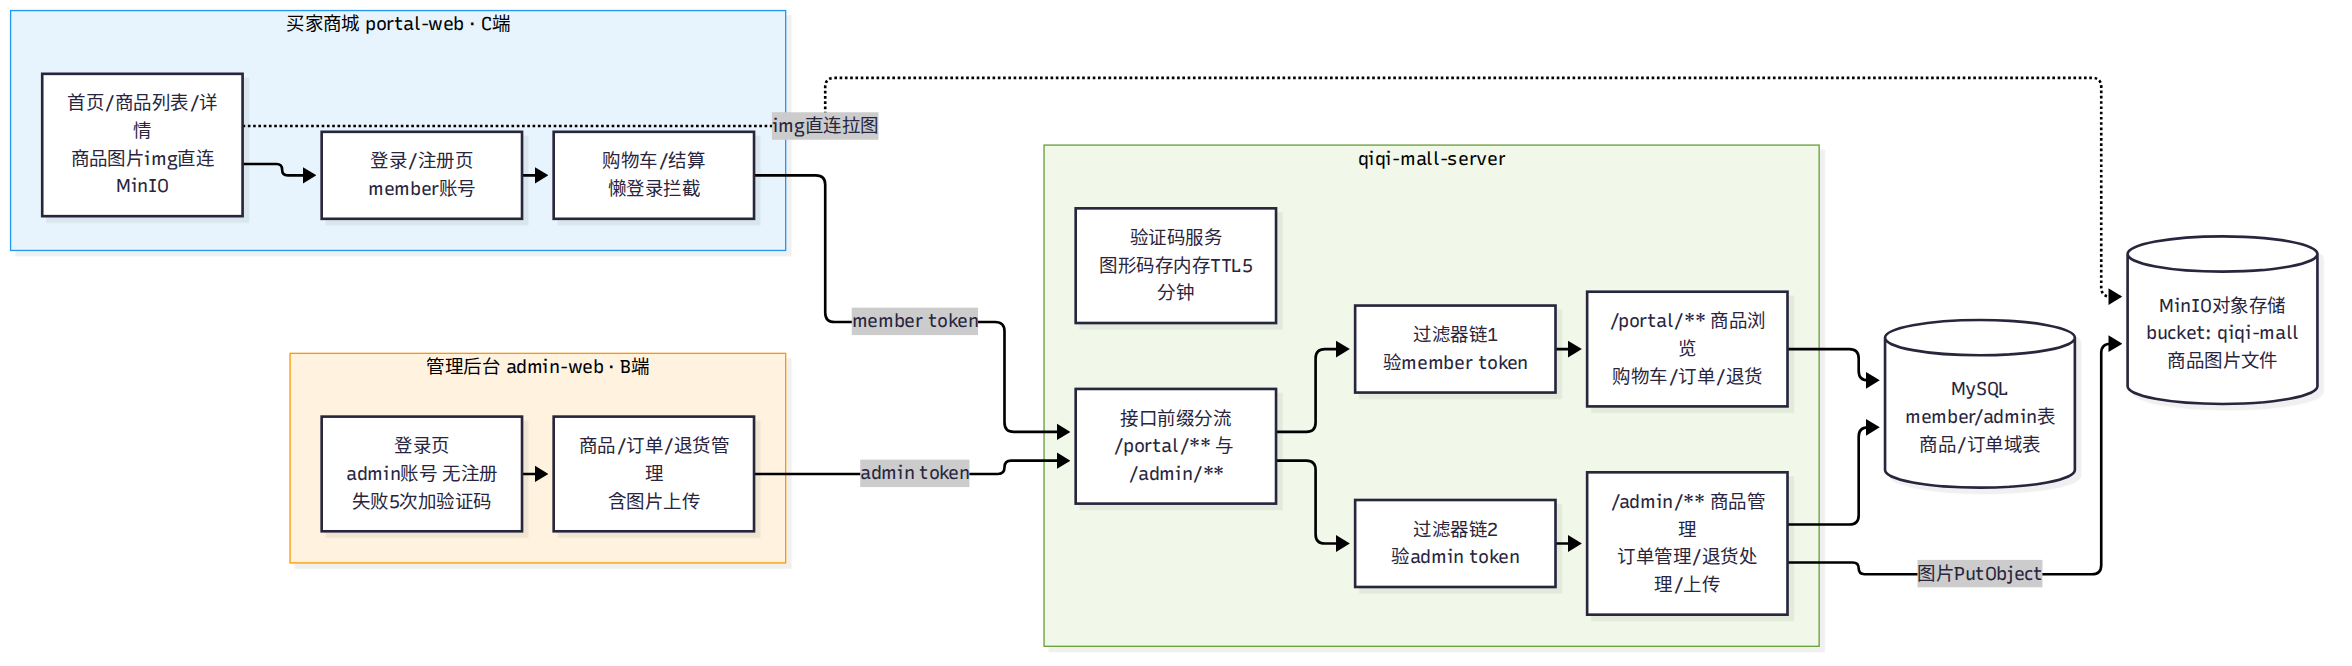
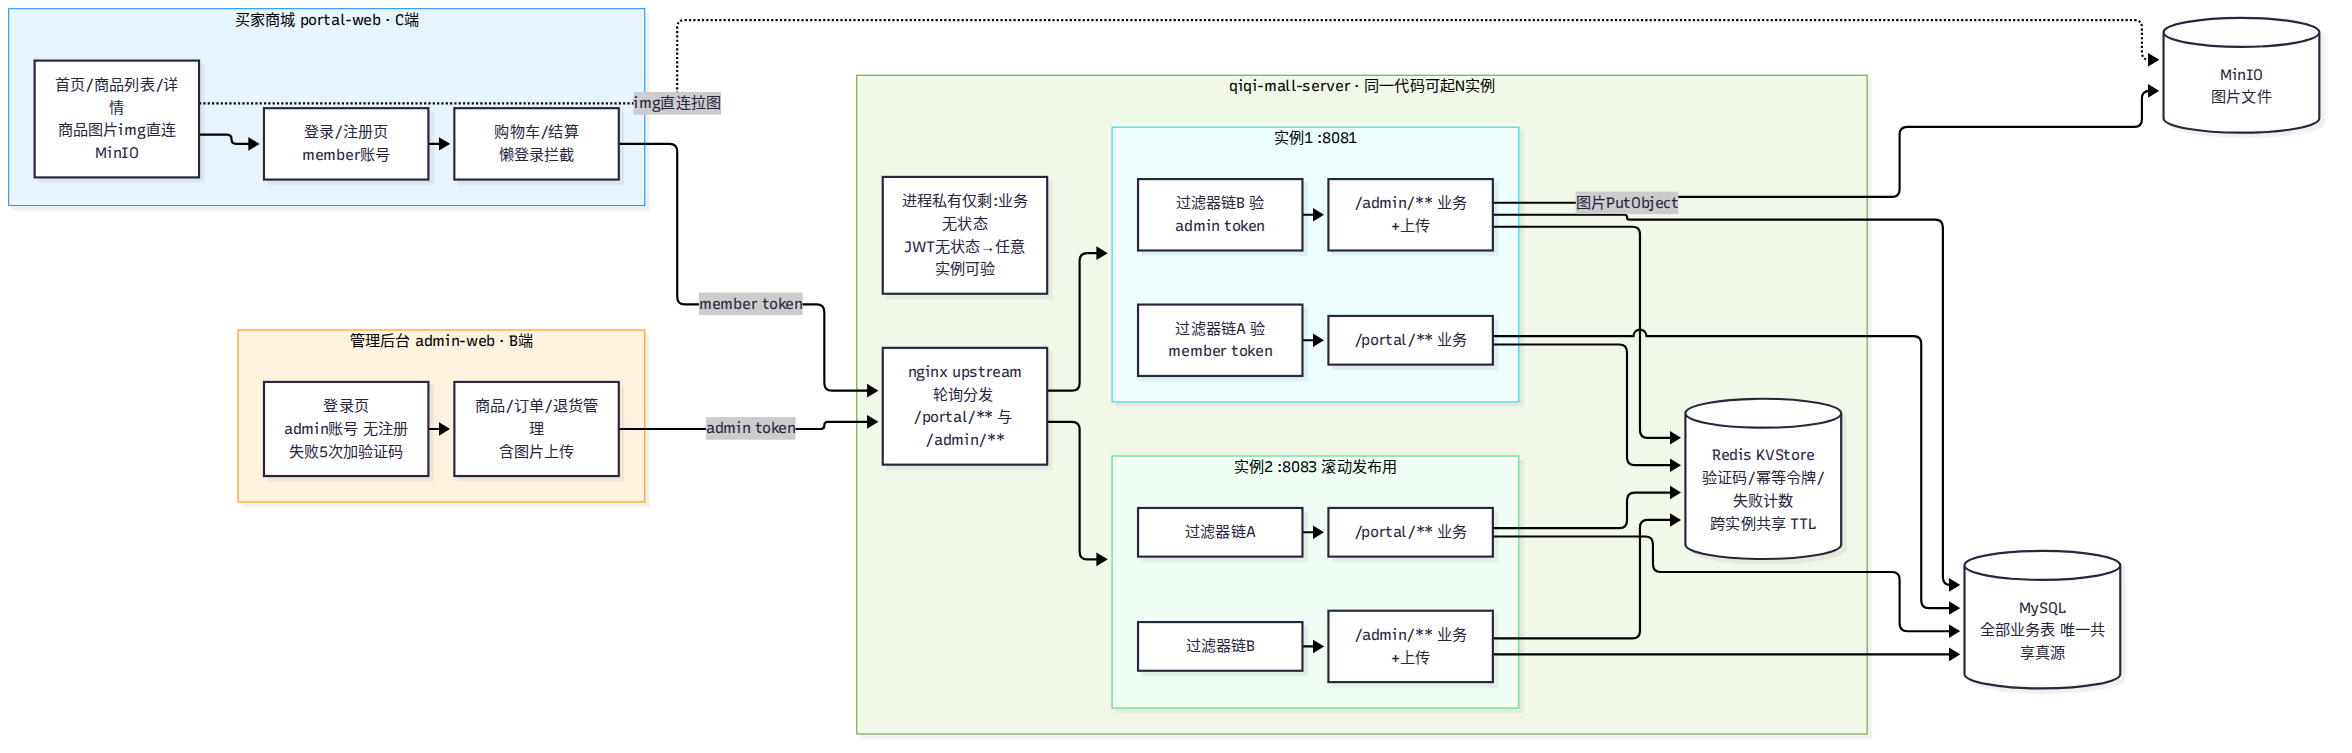
docs: 架构图升级为多实例+Redis版(nginx upstream/KVStore共享) + 多实例改造规划multi-instance-plan + 索引同步

diff --git a/docs/PROJECT-DOCS-INDEX.md b/docs/PROJECT-DOCS-INDEX.md
@@ -1,38 +1,90 @@
-# 七七商城 文档总索引
+# 七七商城 设计图集
 
-> 本文件是全项目文档与图集的**唯一入口**。图集与代码同步原则：**图必须服从实现**（实现变了图跟着改）。
+> 本文档是全部设计图的索引。源码 `.mmd` 与成图 `.png` 同名成对存放，文件按阅读顺序编号。
+> 重新出图（3倍分辨率）：`npx --prefix <mmdc目录> mmdc -s 3 -i <文件>.mmd -o <文件>.png -b white -p puppeteer.json`
 
-## 一、图集（docs/er-diagrams.md 为图集详细索引）
+## 图集总目录（按编号即阅读顺序）
 
-| 编号 | 类别 | 位置 | 说明 |
+| 编号 | 图名 | 类型 | 回答的问题 |
 |---|---|---|---|
-| 1 | 架构 | flows/01-架构/ | B/C端分离+双过滤器链+MySQL/MinIO |
-| 2 | 总览 | flows/02-业务场景/ | 全业务环节串联(实现状态已同步) |
-| 3~6 | 场景 | flows/02-业务场景/ | 商品浏览/购买下单/订单履约/售后退货 |
-| 7~9 | 机制 | flows/03-机制时序/ | 登录/验证码/图片上传 |
-| 10~13 | ER | er/ | 总览(17实体)/商品域/订单域/用户域 |
-| 14 | 状态 | flows/04-状态机与修复/ | 守卫态状态机(status 0~6) |
-| 15 | 修复 | flows/04-状态机与修复/ | e2e五项修复交互规格 |
-| 16~18 | 问题 | flows/05-问题归档/ | e2e历史问题(已修复归档) |
+| 1 | 系统架构图 | 架构 | 系统分几端、边界在哪、通道怎么走 |
+| 2 | 主链路总览图 | 流程 | 全部业务环节串联视图（四场景的整合参考） |
+| 3 | 场景1-商品浏览 | 场景 | 管理员上架 → 买家浏览详情 |
+| 4 | 场景2-购买下单 | 场景 | 懒登录拦截 → 购物车合并 → 下单 → 支付 |
+| 5 | 场景3-订单履约 | 场景 | 管理员发货 → 买家确认收货 ⭐缺口集中在此 |
+| 6 | 场景4-售后退货 | 场景 | 买家申请 → 管理员审核 → 售后闭环 |
+| 7 | 登录业务时序图 | 机制 | 三场景时序：买家登录注册回跳、管理员验证码登录、token访问 |
+| 8 | 验证码机制时序图 | 机制 | 图形码生成校验、一次性消费、失败计数 |
+| 9 | 图片上传时序图 | 机制 | MinIO 上传、安全校验、URL 回填 |
+| 10 | ER图-总览 | 数据 | 15 实体全关系总览 |
+| 11 | ER图-商品域 | 数据 | 分类/类型/属性/商品/SKU/**SKU规格值**/相册 |
+| 12 | ER图-订单域 | 数据 | 订单(status 0~6)/明细/退货/原因/设置/支付流水 |
+| 13 | ER图-用户域 | 数据 | 会员/收货地址/购物车/管理员 |
+| 14 | 订单状态图 | 状态 | 守卫态状态机:每条流转标[触发者]+接口+前置校验;下单即扣模型(关单=回补库存) |
+| 15 | e2e修复方案时序图 | 机制 | P1发货/P2确认收货/P3售后可见/P4分类树/守卫剥离 五项修复的交互规格 |
+| 16 | 问题图-P12履约断链 | 问题 | e2e发现:发货无按钮+确认收货无接口,订单卡已付款 |
+| 17 | 问题图-P34缺陷 | 问题 | 退货结果买家不可见+分类树选不了父节点 |
+| 18 | 问题图-状态机无守卫 | 问题 | 通用更新任意改status,两种脏数据路径 |
 
-## 二、性能难点证据链（benchmark/，见 benchmark/README.md 总索引）
+存放位置与分组：
+- `flows/01-架构/`：编号 1
+- `flows/02-业务场景/`：编号 2~6（主链路总览 + 四场景）
+- `flows/03-机制时序/`：编号 7~9（登录/验证码/上传）
+- `flows/04-状态机与修复/`：编号 14~15
+- `flows/05-问题归档/`：编号 16~18（已修复，过程证据）
+- `er/`：编号 10~13
 
-| 优化项 | 状态 | 量化结论 |
-|---|---|---|
-| 1-防超卖与死锁 | ✅ 完整闭环 | 超卖88→0;死锁53%触发→重试治理 |
-| 2-SQL调优 | ✅ P1/P2已闭环 | 23MB/3.4s→KB级/100ms;filesort消除 |
-| 预聚合+自动关单 | ⏸ 规划 | 依赖 order.create_time(ER待补) |
+## 阅读顺序建议
 
-## 三、过程文档
+1. **先看 1**（架构）：知道系统有几端、什么边界
+2. **再看 2 + 3~6**（场景）：知道业务怎么走、哪些已实现（✅）哪些缺失（⛔）
+3. **实现某模块时查 10~13**（数据）：建表和写接口的依据
+4. **深入某个点时看 7~9**（机制）：登录/验证码/上传的详细设计
 
-| 文档 | 说明 |
-|---|---|
-| docs/audit-doc-consistency.md | 第二轮文档一致性审计(2026-11-10,已全部修复) |
-| docs/docker.md | 部署/镜像源探测流程 |
-| e2e/FINDINGS.md | e2e历史问题清单(P1~P4,均已修复) |
+## 关键设计结论速查
 
-## 四、遗留待办
+### 架构（图1）
+B/C 端分离：admin-web（管理后台）与 portal-web（买家商城）两个前端应用 + 单后端双过滤器链（/admin/** 与 /portal/** 分流）+ MySQL 与 MinIO 双存储。
+**隔离四维度**：入口隔离（不同登录地址）、身份隔离（admin/member 两张账号表）、通道隔离（各自 token 与过滤器链）、数据隔离（两账号表零外键关联）。
 
-1. **order.create_time** 未定义 → 阻塞自动关单(ER下次迭代)
-2. **预聚合表**(product_sales_stat) → 报表场景架构演进(方案见sql-tuning P3,与自动关单同一批定时任务)
-3. **模拟支付话术** → 演示时主动说明
+### 场景覆盖现状（图3~6）
+- ✅ 已实现：注册/登录（含注册即登录）、商品浏览、购物车（含本地合并 merge）、下单（快照+扣库存）、退货申请与审核
+- ✅ 已实现：注册/登录（含注册即登录、本地购物车合并）、商品浏览、下单（快照+原子扣库存）、模拟支付（写支付流水）、发货/确认收货（专用接口+守卫）、退货申请与审核（退款流水+库存回补）、售后状态可见
+- ⛔ 模拟支付（POST /orders/{id}/pay 直接改状态+写流水），演示需主动说明
+- ⏸ 待定：自动关单（依赖 order.create_time 字段，ER 待补）
+
+### 图片能力 SQL（已并入 sql/schema.sql）
+```sql
+product.pic VARCHAR(500)   -- 主图URL（MinIO）
+sku.pic     VARCHAR(500)   -- SKU图URL（MinIO）
+product_gallery(product_id FK CASCADE, url, sort)  -- 商品相册，见图11
+```
+
+### 设计决策记录：SKU 规格从 JSON 改为关联表（图11 v2，已实施）
+
+- **背景**：C 端详情页需按属性展示/筛选规格，`sku.spec_json`（如 `{"净含量":"250g"}`）无法结构化查询，且属性名冗余存储改名难同步
+- **变更**：SKU 删除 `spec_json` 列，新增 `sku_spec` 表（id / sku_id FK CASCADE / attribute_id FK / value，UNIQUE(sku_id, attribute_id)）
+- **收益**：属性名单一来源（attribute 表）、可按属性值筛选/校验笛卡尔积、前端规格选择器可按属性分组渲染
+- **实施情况（2026-11-10）**：
+  - 建表：`sku_spec`（UNIQUE(sku_id, attribute_id) FK→sku CASCADE、FK→attribute）+ `product_gallery`（FK→product CASCADE）+ `product.pic` / `sku.pic`
+  - 后端：`SkuController` 保存体 `{sku, specs}`（规格值整组替换）；`ProductController` 保存体 `{product, gallery}`（相册整组替换）；`SpecTextHelper` 统一把规格值拼成「颜色:黑,内存:256G」
+  - admin：SKU 弹窗按商品类型的属性动态增删规格值；商品弹窗可编辑主图与相册
+  - portal：详情页规格按钮显示规格文本、主图 + 相册缩略图；购物车/结算显示规格文本
+  - 下单同时校验并扣减 `sku.stock`（库存不足整单回滚）
+
+## 其他文档
+
+- `docker.md`：容器部署说明（需新增 minio 服务：9000 API/9001 控制台，bucket=qiqi-mall 公开读）
+- `screenshots/`：运行截图
+
+### 列表分页（P1）
+
+- 后端：`MybatisPlusConfig` 注册 `PaginationInnerInterceptor`（`maxLimit=100`，不配插件 `Page` 查询会静默失效）
+- C 端我的订单：`GET /portal/orders?page=&size=` → `{records,total,current,size,pages}`，`size` 夹在 1~50，按主键倒序
+- B 端订单列表：同样分页，并支持 `orderSn` / `status` 筛选（历史压测数据达 50 万行，不分页无法使用）
+- 前端：两个订单页都加了 `el-pagination`，`total` 来自后端
+
+### 幂等令牌（下单防重）
+
+`GET /portal/orders/idempotent-token` 领令牌 → 提交订单携带 `idempotentToken`，服务端原子消费；
+重复提交被拒。配合死锁重试：重试沿用同一请求不再消费令牌，因此不会重复扣减。详见 `benchmark/oversell/README.md` 第 9 节。

diff --git a/docs/multi-instance-plan.md b/docs/multi-instance-plan.md
@@ -1,0 +1,158 @@
+# 多实例改造规划（滚动发布实验的前置方案）
+
+> 目标：让同一份代码能起 N 个实例协同服务，为滚动发布实验铺路。
+> 核心认知：**代码已经 90% 就绪**——MySQL 是共享的、JWT 是无状态的、业务无状态——
+> 只有两处"进程私有内存"需要外移，外加一个流量入口。
+
+## 现状盘点：多实例只差三件事
+
+| 类别 | 现状 | 多实例下的问题 | 改造 |
+|---|---|---|---|
+| 数据 | MySQL 共享 ✅ | 无 | 不动 |
+| 会话 | JWT 无状态 ✅ | 无（token 自带身份，任何实例可验） | 不动——这是当初选 JWT 的红利 |
+| 验证码 | CaptchaStore 进程内存 | 实例1发的码，实例2验不过 | 外移 Redis |
+| 幂等令牌 | IdempotentTokenStore 进程内存 | 跨实例防线失效 | 外移 Redis |
+| 流量入口 | 无（直连单实例） | 多实例必须有统一入口分发 | nginx upstream |
+
+## 改造步骤（四步，每步可独立验证）
+
+### 第 1 步：Redis 容器（基础设施）
+
+```yaml
+# docker-compose.yml 追加
+redis:
+  image: redis:7-alpine
+  ports: ["127.0.0.1:6379:6379"]
+  volumes: [redis-data:/data]
+```
+
+### 第 2 步：Store 抽象（代码改造核心）
+
+**关键设计：接口不变，实现分层**——当初 CaptchaStore/IdempotentTokenStore 独立成类就是为了这一天。
+
+```java
+// 统一抽象:两个Store的共同能力 = "带TTL的一次性KV"
+public interface KvStore {
+    void put(String key, Duration ttl);
+    boolean consume(String key);      // 原子取出即删(验证码/令牌共用语义)
+    long counter(String key, Duration window);  // 失败计数(验证码用)
+}
+// 实现1: MemoryKvStore(现有ConcurrentHashMap逻辑平移,保留单实例档)
+// 实现2: RedisKvStore(SET EX / GETDEL / INCR+EXPIRE 一一对应)
+// 选择: 配置项 app.kv-store=memory|redis,默认memory
+```
+
+迁移对应关系：
+| 现有方法 | Redis 命令 | 原子性来源 |
+|---|---|---|
+| put + TTL | `SET key val EX 300` | Redis 单线程 |
+| consume(取出即删) | `GETDEL key`(Redis 6.2+) | 同上 |
+| 失败计数+窗口 | `INCR key` + `EXPIRE key 300`(首次) | 同上 |
+| 定时清扫 | **不需要**——Redis 自带过期回收 | 免维护 |
+
+### 第 3 步：多实例启动与流量分发
+
+```yaml
+# compose: server 抽成可复制端口
+# 实例1: 8081, 实例2: 8083, 环境变量注入 app.kv-store=redis
+nginx:
+  # upstream 轮询两个实例
+  upstream qiqi_backend { server 127.0.0.1:8081; server 127.0.0.1:8083; }
+  location /api/ { proxy_pass http://qiqi_backend; }
+```
+
+改造点：`server.port` 从写死改为 `${SERVER_PORT:8081}`，compose 用同一镜像起两个服务（或 `deploy.replicas`）。
+
+### 第 4 步：验证（滚动发布实验）
+
+照 `benchmark/3-滚动发布实验/README.md` 执行：
+- 轮询流量下验证码/幂等全通过（Redis 共享）
+- kill 实例1 → 实例2 独立服务，发布窗口无失败
+
+## 明确不做（本期）
+
+- 服务注册发现（Nacos/Eureka）——两台固定实例，upstream 写死即可，别为演示引注册中心
+- 分布式 session —— JWT 无状态，本来就不需要
+- Redis 集群/哨兵 —— 单机 Redis 挂了顶多退回内存档，单点可接受
+
+## 遗留联动
+
+- 自动关单定时任务：多实例下会重复执行 → 加 Redis SETNX 分布式锁（等 order.create_time 一起做）
+EOF
+mv /tmp/multi-instance-plan.md /root/qiqi-mall/docs/multi-instance-plan.md 2>/dev/null; cp /dev/null /dev/null; cat > /root/qiqi-mall/docs/multi-instance-plan.md <<'EOF'
+# 多实例改造规划（滚动发布实验的前置方案）
+
+> 目标：让同一份代码能起 N 个实例协同服务，为滚动发布实验铺路。
+> 核心认知：**代码已经 90% 就绪**——MySQL 是共享的、JWT 是无状态的、业务无状态——
+> 只有两处"进程私有内存"需要外移，外加一个流量入口。
+
+## 现状盘点：多实例只差三件事
+
+| 类别 | 现状 | 多实例下的问题 | 改造 |
+|---|---|---|---|
+| 数据 | MySQL 共享 ✅ | 无 | 不动 |
+| 会话 | JWT 无状态 ✅ | 无（token 自带身份，任何实例可验） | 不动——这是当初选 JWT 的红利 |
+| 验证码 | CaptchaStore 进程内存 | 实例1发的码，实例2验不过 | 外移 Redis |
+| 幂等令牌 | IdempotentTokenStore 进程内存 | 跨实例防线失效 | 外移 Redis |
+| 流量入口 | 无（直连单实例） | 多实例必须有统一入口分发 | nginx upstream |
+
+## 改造步骤（四步，每步可独立验证）
+
+### 第 1 步：Redis 容器（基础设施）
+
+```yaml
+# docker-compose.yml 追加
+redis:
+  image: redis:7-alpine
+  ports: ["127.0.0.1:6379:6379"]
+  volumes: [redis-data:/data]
+```
+
+### 第 2 步：Store 抽象（代码改造核心）
+
+**关键设计：接口不变，实现分层**——当初 CaptchaStore/IdempotentTokenStore 独立成类就是为了这一天。
+
+```java
+// 统一抽象:两个Store的共同能力 = "带TTL的一次性KV"
+public interface KvStore {
+    void put(String key, Duration ttl);
+    boolean consume(String key);      // 原子取出即删(验证码/令牌共用语义)
+    long counter(String key, Duration window);  // 失败计数(验证码用)
+}
+// 实现1: MemoryKvStore(现有ConcurrentHashMap逻辑平移,保留单实例档)
+// 实现2: RedisKvStore(SET EX / GETDEL / INCR+EXPIRE 一一对应)
+// 选择: 配置项 app.kv-store=memory|redis,默认memory
+```
+
+迁移对应关系：
+| 现有方法 | Redis 命令 | 原子性来源 |
+|---|---|---|
+| put + TTL | `SET key val EX 300` | Redis 单线程 |
+| consume(取出即删) | `GETDEL key`(Redis 6.2+) | 同上 |
+| 失败计数+窗口 | `INCR key` + `EXPIRE key 300`(首次) | 同上 |
+| 定时清扫 | **不需要**——Redis 自带过期回收 | 免维护 |
+
+### 第 3 步：多实例启动与流量分发
+
+```yaml
+# server.port 改为 ${SERVER_PORT:8081},compose 用同一镜像起两个实例
+nginx upstream 轮询 8081/8083
+```
+
+### 第 4 步：验证（滚动发布实验）
+
+照 `benchmark/3-滚动发布实验/README.md` 执行：
+- 轮询流量下验证码/幂等全通过（Redis 共享）
+- kill 实例1 → 实例2 独立服务，发布窗口无失败
+
+## 明确不做（本期）
+
+- 服务注册发现（Nacos/Eureka）——固定实例 upstream 写死即可
+- 分布式 session —— JWT 无状态，本来就不需要
+- Redis 集群/哨兵 —— 单机 Redis 单点可接受（挂了退回内存档）
+
+## 遗留联动
+
+- 自动关单定时任务：多实例下会重复执行 → Redis SETNX 分布式锁（等 order.create_time 一起做）
+EOF
+echo done

diff --git a/benchmark/3-滚动发布实验/README.md b/benchmark/3-滚动发布实验/README.md
@@ -1,0 +1,43 @@
+# 优化项3：滚动发布下的内存态失效 —— Redis 引入的需求复现
+
+> 方法论：模拟靶子=滚动更新（服务迭代的真实可用性诉求，非凭空多实例）
+> 预期：一次实验暴露全部"进程内存态"在多实例下的失效模式
+> 状态：方案设计，未执行
+
+## 一、实验设计
+
+### 环境搭建
+```
+实例1: qiqi-server 8081 (现有dev实例)
+实例2: qiqi-server 8082 (同库同配置新起,模拟"新版本实例")
+分发层: nginx/简单轮询脚本,将请求轮流打到两个实例
+```
+
+### 实验步骤与预期翻车点
+
+| 步骤 | 操作 | 预期失效 |
+|---|---|---|
+| ① 验证码 | 实例1生成验证码 → 登录请求打到实例2 | ⛔ 校验失败(令牌在实例1内存) |
+| ② 幂等令牌 | 结算页令牌由实例1发放 → 提交打到实例2 | ⛔ 令牌查无 → 正常下单被拒 |
+| ③ 幂等防线 | 同一tokenId两次请求分别路由到两实例 | ⛔ 双del各自成功 → 重复订单(防线失效) |
+| ④ 部分无碍 | 下单扣库存(数据库行锁) | ✅ 原子扣减天然跨实例(SQL层共享) |
+| ⑤ 发布窗口 | 实例2滚动替代实例1期间持续下单 | 观察失败率曲线 |
+
+## 二、量化预期(实验前预注册,防事后编数据)
+
+- ③ 重复订单率: 轮询下理论上 100% 的重复提交都会成功两次
+- ① 验证码失败率: 50%请求(打到未生成实例的)必失败
+- ④ 库存一致性: 始终正确(对照组:证明只有"进程内存态"坏了)
+
+## 三、修复方案(实验确认后实施)
+
+1. compose 加 redis 容器
+2. TokenStore/CaptchaStore 抽接口 → Redis 实现(内存实现保留作单实例档)
+3. 迁移后同实验复跑: ①~③ 全部修复,④ 不变
+4. (联动)Redis SETNX 分布式锁 → 自动关单任务(待 order.create_time)
+
+## 四、价值定位
+
+发布不断服(可用性)是滚动更新的硬诉求 → 多实例是它的必然形态 →
+内存态失效是多实例的必然结果 → Redis 是这个链条的终点。
+整个链每一环都有业务动机,无一处硬凑。
